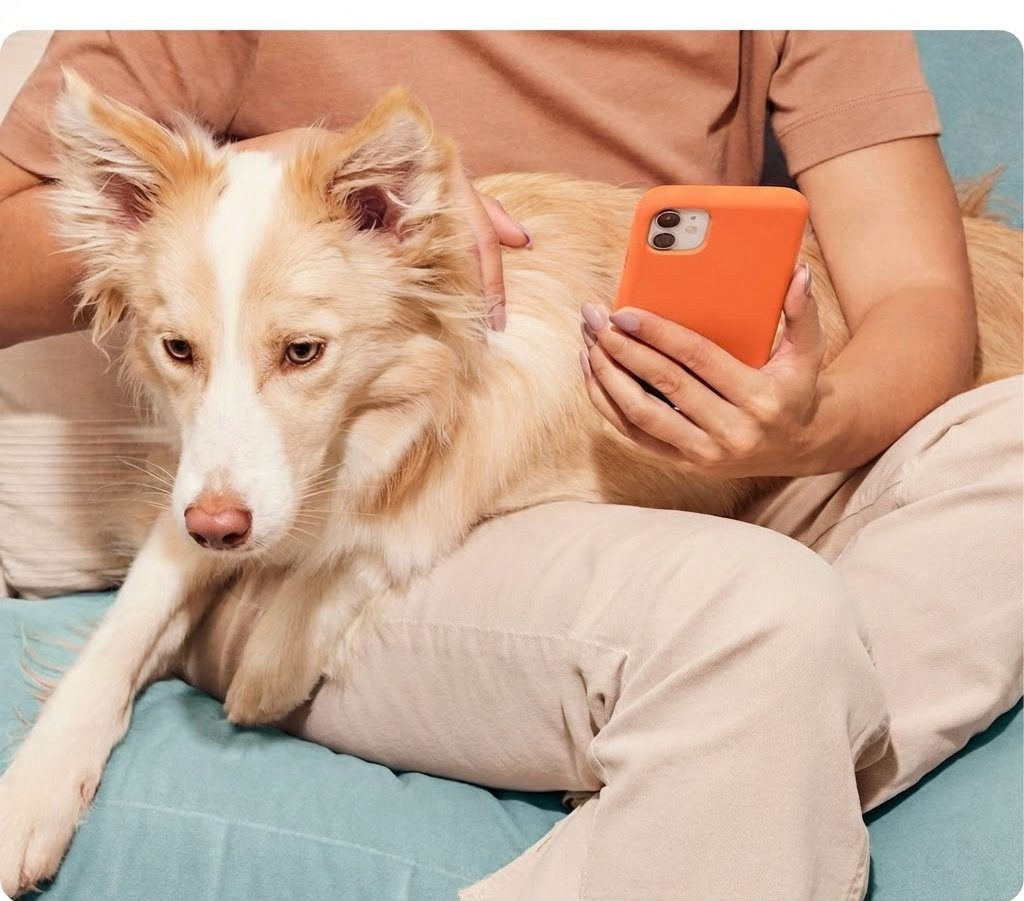
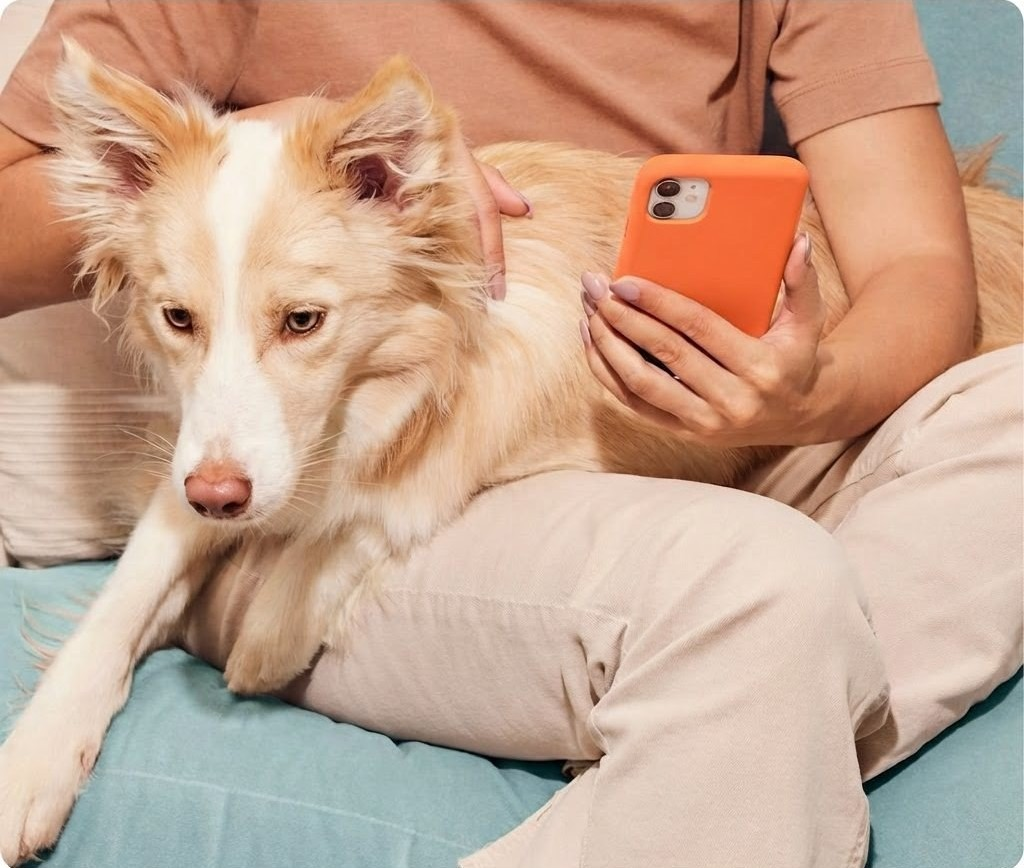
Home móvil: escena del SMS como Empecemos, sin anclaje de scroll, carrusel de menús deslizable, Ver todos los menús y pasos que aparecen de uno en uno; Cómo funciona: pattern abajo, primer plano del perro, foto de nutrición debajo y formulario centrado

diff --git a/index.html b/index.html
@@ -1429,6 +1429,20 @@ h1,h2,h3{font-family:var(--font-display);color:var(--text-hi);font-weight:700;li
 @media (max-width:900px){.s-recetas .cta{display:flex!important;padding-top:24px}}
 /* Opiniones: puntos de carrusel en tablet y móvil */
 @media (max-width:900px){.op-dots{display:flex;margin-top:4px}}
+/* SMS (tablet/móvil): escena como «Empecemos por tu perro»: tarjeta bajo el titular que crece a pantalla completa y aparece el formulario */
+@media (max-width:900px){
+  .sms2.is-manim{display:block;padding:0;min-height:0;background:#fff}
+  .sms2-stk{position:sticky;top:64px;overflow:hidden}
+  .sms2.is-manim .bg{position:absolute;left:var(--ml);right:var(--ml);top:var(--mt);bottom:var(--mb);height:auto;border-radius:var(--r);overflow:hidden;clip-path:none!important}
+  .sms2.is-manim .bg img{transform:none!important;object-position:40% 55%}
+  .sms2.is-manim .bg::after{background:rgba(20,16,14,.5);opacity:var(--sh,0)}
+  .sms2-intro{position:absolute;top:8px;left:var(--gutter);right:var(--gutter);text-align:center;opacity:var(--to,1);transform:translateY(var(--ty,0px))}
+  .sms2.is-manim .sms2-box{position:absolute;z-index:2;left:var(--gutter);right:var(--gutter);top:50%;width:auto;max-width:none;margin:0;padding:0;opacity:var(--fo,0);transform:translateY(calc(-50% + var(--fy,20px)));pointer-events:none}
+  .sms2.is-manim.is-done .sms2-box{pointer-events:auto}
+  .sms2.is-manim .sms2-dto{top:calc(var(--mt) - 34px);right:calc(var(--ml) + 4px)}
+}
+@media (max-width:1074px){.s-recetas .recetas-grid{touch-action:pan-y}}
+@media (max-width:860px){.ce3.is-anim .ce3-cards{overflow:clip;overflow-clip-margin:12px}}
 </style>
 </head>
 <body>
@@ -1569,7 +1583,7 @@ h1,h2,h3{font-family:var(--font-display);color:var(--text-hi);font-weight:700;li
     <article class="receta buey" data-key="buey"><div class="img rcm-img"><img src="assets/receta-buey.jpg" alt="Menú de buey de Dogfy Diet" loading="lazy" decoding="async"><img class="rcm-pack" src="assets/rc-pack-beef.jpg" alt="" aria-hidden="true" loading="lazy" decoding="async"></div><div class="rcm-body"><h3>Menú de buey</h3><span class="rcm-sold"><b>139.972</b> vendidos/mes</span></div></article>
     <article class="receta pavo" data-key="pavo"><div class="img rcm-img"><img src="assets/receta-pavo.jpg" alt="Menú de pavo de Dogfy Diet" loading="lazy" decoding="async"><img class="rcm-pack" src="assets/rc-pack-turkey.jpg" alt="" aria-hidden="true" loading="lazy" decoding="async"></div><div class="rcm-body"><h3>Menú de pavo</h3><span class="rcm-sold"><b>140.611</b> vendidos/mes</span></div></article>
   </div>
-  <div class="cta"><a class="btn btn-sec-rec" href="recetas.html">Ver recetas</a></div>
+  <div class="cta"><a class="btn btn-sec-rec" href="recetas.html">Ver todos los menús</a></div>
 </section>
 <img class="deco-precio" data-parallax="0.12" src="assets/precio-vector.svg" alt="" width="825" height="1291">
 <section class="s-precio" id="precio">
@@ -1733,7 +1747,7 @@ addEventListener('scroll',()=>{if(!tick){tick=true;requestAnimationFrame(upd)}},
 const tops=()=>[...document.querySelectorAll('.page > section, .page > .stats-m, .page > .yellow-wrap, .yellow-wrap > .s-caja')].filter(e=>e.offsetHeight>=innerHeight*.7&&!e.classList.contains('s-porque')&&!e.classList.contains('s-recetas')&&!e.classList.contains('ce3')).map(e=>e.getBoundingClientRect().top);  // el bol y las recetas no se anclan: sus propias animaciones ya guían el scroll y el anclaje las hacía bailar
 let idle=null,touching=false,snapping=false;const HEAD=64;
 // Rango amplio (8-95 % de la pantalla): cualquier límite de sección que quede a la vista se ancla; por encima del 55 % se completa la sección anterior, por debajo entra la nueva
-const settle=()=>{if(!mq.matches||touching||snapping)return;const vh=innerHeight;const cands=tops().filter(t=>t>vh*.12&&t<vh*.95);if(!cands.length)return;const b=cands.sort((p,q)=>Math.abs(p-vh*.5)-Math.abs(q-vh*.5))[0];const target=b<vh*.55?scrollY+b-HEAD:scrollY+b-vh;if(Math.abs(target-scrollY)<8)return;snapping=true;scrollTo({top:Math.max(0,target),behavior:'smooth'});
+const settle=()=>{return;const vh=innerHeight;const cands=tops().filter(t=>t>vh*.12&&t<vh*.95);if(!cands.length)return;const b=cands.sort((p,q)=>Math.abs(p-vh*.5)-Math.abs(q-vh*.5))[0];const target=b<vh*.55?scrollY+b-HEAD:scrollY+b-vh;if(Math.abs(target-scrollY)<8)return;snapping=true;scrollTo({top:Math.max(0,target),behavior:'smooth'});
   // si el desplazamiento suave se interrumpe o no llega, se vuelve a intentar
   clearTimeout(snapping._t);snapping._t=setTimeout(()=>{snapping=false;clearTimeout(idle);idle=setTimeout(settle,120);},1000);};
 addEventListener('scroll',()=>{clearTimeout(idle);idle=setTimeout(settle,160);},{passive:true});
@@ -1794,7 +1808,7 @@ breed.addEventListener('change',()=>{breedLabel.textContent=breed.value||'¿Cuá
   };
   addEventListener('scroll',()=>{if(!tick){tick=true;requestAnimationFrame(upd)}},{passive:true});addEventListener('resize',upd);mq.addEventListener('change',upd);upd();
   // Si el scroll se detiene a medias de una transición, se completa sola hacia delante: 3-52 % (el texto sale y la foto crece a sangre) salta al 54 %; 80-100 % (entrada de Opiniones) salta al final
-  let idle,snapping=false;const settle=()=>{if(!mq.matches||snapping)return;const r=wrap.getBoundingClientRect(),total=r.height-innerHeight;if(total<=0)return;const p=-r.top/total;let target=null;if(p>.03&&p<.52)target=.54;else if(p>.8&&p<.995)target=1;if(target==null)return;snapping=true;scrollTo({top:scrollY+total*(target-p),behavior:'smooth'});setTimeout(()=>snapping=false,900);};
+  let idle,snapping=false;const settle=()=>{return;const r=wrap.getBoundingClientRect(),total=r.height-innerHeight;if(total<=0)return;const p=-r.top/total;let target=null;if(p>.03&&p<.52)target=.54;else if(p>.8&&p<.995)target=1;if(target==null)return;snapping=true;scrollTo({top:scrollY+total*(target-p),behavior:'smooth'});setTimeout(()=>snapping=false,900);};
   addEventListener('scroll',()=>{clearTimeout(idle);idle=setTimeout(settle,160);},{passive:true});
 })();
 // Parallax: [data-parallax="velocidad"] se desplaza en Y según la posición del contenedor en el viewport
@@ -1874,6 +1888,11 @@ const next=()=>{if(!isOn()||el.classList.contains('stopped')||el.classList.conta
 const start=()=>{clearInterval(timer);timer=setInterval(next,4500);};
 el.addEventListener('transitionend',()=>{if(!el.classList.contains('stopped'))return;const m=/translateX\((-?[\d.]+)px\)/.exec(el.style.transform||'');if(!m)return;const x=parseFloat(m[1]);let best=0,bd=1e9;cards().forEach((c,i)=>{const d=Math.abs(xFor(i)-x);if(d<bd){bd=d;best=i;}});idx=best;});  // tras elegir una pestaña, seguimos desde esa tarjeta
 if(matchMedia('(hover:hover)').matches){el.addEventListener('mouseenter',()=>el.classList.add('paused'));el.addEventListener('mouseleave',()=>el.classList.remove('paused'));}
+// deslizar con el dedo: pasa a la tarjeta anterior/siguiente y reinicia el avance automático
+let sx=null,sy=null;const host=el.parentElement;
+host.addEventListener('touchstart',e=>{if(!isOn())return;sx=e.touches[0].clientX;sy=e.touches[0].clientY;},{passive:true});
+host.addEventListener('touchend',e=>{if(sx===null||!isOn())return;const dx=e.changedTouches[0].clientX-sx,dy=e.changedTouches[0].clientY-sy;sx=null;if(Math.abs(dx)<36||Math.abs(dx)<Math.abs(dy))return;
+  el.classList.remove('stopped');const n=real();idx+=dx<0?1:-1;if(idx<0){idx+=n;place(idx+1,false);requestAnimationFrame(()=>place(idx,true));}else{place(idx,true);if(idx>=n){const onEnd=()=>{el.removeEventListener('transitionend',onEnd);idx-=n;place(idx,false);};el.addEventListener('transitionend',onEnd);}}start();},{passive:true});
 const init=()=>{if(isOn()){idx=0;place(0,false);}else{el.style.transform='';el.classList.remove('sliding');}};init();addEventListener('resize',init);addEventListener('load',init);start();})();
 if(document.getElementById('reviews'))run(document.getElementById('reviews'),()=>true,34);})();
 // Stepper: reserva la altura del estado más alto (un paso abierto) para que el botón no baile al colapsar/expandir
@@ -1978,7 +1997,7 @@ const measure=()=>{vh=innerHeight;const mob=innerWidth<=860;gap=mob?12:16;const 
   run=Math.round(vh*.55)*(N-1);LH=lh;const shC=mob?mh+16+col:Math.max(col,mh);track.style.height=(shC+run)+'px';};
 let active=0;const setActive=k=>{if(k===active)return;active=k;imgs.forEach((im,i)=>im.classList.toggle('is-on',i===k));cards.forEach((c,i)=>{c.classList.toggle('is-past',i<k);c.classList.toggle('is-active',i===k);});};
 let tick=false;const upd=()=>{tick=false;const r=track.getBoundingClientRect(),p=Math.max(0,Math.min(N-1,(stuck-r.top)/(run/(N-1))));
-  let y=0,bot=0;cards.forEach((c,i)=>{if(i){const t=ease(Math.max(0,Math.min(1,p-(i-1))));y+=lerp(hs[i-1]+gap,tops[i-1],t);}const o=i<2?1:Math.max(0,Math.min(1,(p-(i-1.6))/0.6));c.style.setProperty('--y',(y+(1-o)*28).toFixed(1)+'px');c.style.opacity=o.toFixed(3);if(o>0.02)bot=Math.max(bot,y+hs[i]);});list.style.setProperty('--ce3-h',bot.toFixed(1)+'px');
+  let y=0,bot=0;cards.forEach((c,i)=>{if(i){const t=ease(Math.max(0,Math.min(1,p-(i-1))));y+=lerp(hs[i-1]+gap,tops[i-1],t);}const MOB=innerWidth<=860;const o=MOB?(i<1?1:Math.max(0,Math.min(1,(p-(i-1))/0.55))):(i<2?1:Math.max(0,Math.min(1,(p-(i-1.6))/0.6)));c.style.setProperty('--y',(y+(1-o)*28).toFixed(1)+'px');c.style.opacity=o.toFixed(3);if(o>0.02)bot=Math.max(bot,y+hs[i]);});list.style.setProperty('--ce3-h',(innerWidth<=860?LH:bot).toFixed(1)+'px');
   setActive(Math.min(N-1,Math.floor(p+.5)));};
 cards.forEach((c,i)=>c.querySelector('.ce3-top').addEventListener('click',()=>{const r=track.getBoundingClientRect();scrollTo({top:scrollY+r.top-stuck+i*(run/(N-1))+2,behavior:'smooth'});}));
 const on=()=>{if(!tick){tick=true;requestAnimationFrame(upd);}};addEventListener('scroll',on,{passive:true});
@@ -2032,6 +2051,24 @@ const dots=cards.map((c,i)=>{const b=document.createElement('button');b.type='bu
 g.after(nav);let t=false;const upd=()=>{t=false;const mid=g.scrollLeft+g.clientWidth/2;let k=0,best=1e9;cards.forEach((c,i)=>{const d=Math.abs(c.offsetLeft-g.offsetLeft+c.offsetWidth/2-mid);if(d<best){best=d;k=i;}});
 if(g.scrollLeft+g.clientWidth>=g.scrollWidth-4)k=cards.length-1;dots.forEach((b,i)=>{b.classList.toggle('active',i===k);b.setAttribute('aria-current',i===k?'true':'false');});};
 g.addEventListener('scroll',()=>{if(!t){t=true;requestAnimationFrame(upd);}},{passive:true});addEventListener('resize',upd);upd();});})();
+</script>
+<script>
+// SMS en tablet/móvil: escena con scroll equivalente a desktop
+(()=>{const s=document.querySelector('.sms2');if(!s)return;const mq=matchMedia('(max-width:900px) and (prefers-reduced-motion:no-preference)');
+const cl=(v,a,b)=>Math.min(b,Math.max(a,v)),ease=t=>t<.5?2*t*t:1-Math.pow(-2*t+2,2)/2,set=(k,v)=>s.style.setProperty(k,v);
+let stk=null,intro=null;
+const build=()=>{if(stk)return;stk=document.createElement('div');stk.className='sms2-stk';while(s.firstChild)stk.appendChild(s.firstChild);s.appendChild(stk);
+  intro=document.createElement('div');intro.className='sms2-intro';intro.setAttribute('aria-hidden','true');const t=s.querySelector('.sms2-title');if(t)intro.appendChild(t.cloneNode(true));stk.insertBefore(intro,stk.firstChild);};
+const unbuild=()=>{if(!stk)return;intro.remove();while(stk.firstChild)s.insertBefore(stk.firstChild,stk);stk.remove();stk=null;s.classList.remove('is-manim','is-done');s.removeAttribute('style');};
+const upd=()=>{if(!mq.matches){unbuild();return}build();s.classList.add('is-manim');
+  const SH=Math.min(innerHeight-64,760);stk.style.height=SH+'px';s.style.height=Math.round(SH+innerHeight*1.1)+'px';
+  const gx=parseFloat(getComputedStyle(document.documentElement).getPropertyValue('--gutter'))||24,gut=Math.min(gx,24);
+  const t0=intro.offsetHeight+28,h0=Math.min(400,SH-t0-60),b0=Math.max(0,SH-t0-h0);
+  const r=s.getBoundingClientRect(),p=cl((64-r.top)/Math.max(1,s.offsetHeight-SH),0,1),g=ease(cl((p-.08)/.6,0,1));
+  set('--mt',(t0*(1-g))+'px');set('--mb',(b0*(1-g))+'px');set('--ml',(gut*(1-g))+'px');set('--r',(20*(1-g))+'px');
+  set('--to',1-cl(g/.35,0,1));set('--ty',(-24*g)+'px');set('--sh',cl((g-.4)/.4,0,1));const fo=cl((g-.7)/.25,0,1);set('--fo',fo);set('--fy',(20*(1-fo))+'px');
+  s.classList.toggle('is-done',fo>.9);};
+let tk=false;addEventListener('scroll',()=>{if(!tk){tk=true;requestAnimationFrame(()=>{tk=false;upd();});}},{passive:true});addEventListener('resize',upd);if(document.fonts)document.fonts.ready.then(upd);upd();})();
 </script>
 </body>
 </html>

diff --git a/como-funciona.html b/como-funciona.html
@@ -2367,6 +2367,22 @@ body:has(.rp-hero) .rp-crumbs{background:var(--blue-deco);max-width:none;padding
 @media (max-width:600px){.cf2-hero h1{font-size:30px;line-height:1.08}}
 .cf2-hero h1{font-size:clamp(36px,4.2vw,58px);max-width:640px}
 @media (max-width:600px){.cf2-hero h1{font-size:34px}}
+/* Pasos: el pattern azul más abajo (no toca el titular) y siempre detrás del texto */
+.cf2-head{position:relative;z-index:2}
+@media (min-width:901px){.cf2-media .cf3-pattern{top:auto;bottom:-120px;transform:none}}
+/* «Para perros llenos de vida» móvil: esquinas suaves y zoom centrado en el perro */
+@media (max-width:767px){
+  .cf2-support-card:has(.cf6-vida){border-radius:14px}
+  .cf2-support-card:has(.cf6-vida) .cf6-vida{transform:scale(2.1);transform-origin:66% 84%}
+}
+/* Nutrición móvil/tablet: la foto debajo del texto, bien encuadrada */
+@media (max-width:900px){.cf2-nutri-img{order:2;margin-top:8px;aspect-ratio:1/1;object-position:35% 40%}}
+/* «Empecemos» móvil: el bloque del formulario centrado en la foto */
+@media (max-width:900px){
+  .emp2-box{top:50%;bottom:auto;left:16px;right:16px}
+  .emp2-stage.is-manim .emp2-box{transform:translateY(calc(-50% + var(--fy,20px)))}
+  .emp2-stage:not(.is-manim) .emp2-box{transform:translateY(-50%)}
+}
 </style>
 <script type="application/ld+json">{"@context": "https://schema.org", "@type": "BreadcrumbList", "itemListElement": [{"@type": "ListItem", "position": 1, "name": "Inicio", "item": "https://cdomingo-dogfy.github.io/dogfy-home-prototype/index.html"}, {"@type": "ListItem", "position": 2, "name": "Cómo funciona", "item": "https://cdomingo-dogfy.github.io/dogfy-home-prototype/como-funciona.html"}]}</script>
 <script type="application/ld+json">{"@context": "https://schema.org", "@type": "FAQPage", "mainEntity": [{"@type": "Question", "name": "¿Qué formatos hay?", "acceptedAnswer": {"@type": "Answer", "text": "Cada menú llega en bolsitas individuales con la ración diaria de tu perro, ya calculada según su peso, edad y actividad. Puedes elegir una receta o combinar varias en el mismo pedido."}}, {"@type": "Question", "name": "¿Cómo llega el producto?", "acceptedAnswer": {"@type": "Answer", "text": "Te lo enviamos a casa congelado y dividido en bolsitas diarias, con envío gratis. Solo tienes que guardarlo en el congelador al recibirlo."}}, {"@type": "Question", "name": "¿Cómo se prepara, debo cocinar el alimento al perro?", "acceptedAnswer": {"@type": "Answer", "text": "No hace falta cocinar nada. Nuestras recetas ya vienen cocinadas a baja temperatura: descongela la bolsita en la nevera, ábrela y sirve."}}, {"@type": "Question", "name": "¿Cada cuánto llegan los menús?", "acceptedAnswer": {"@type": "Answer", "text": "Tu primera caja trae 14 días de comida. Después la suscripción continúa y puedes cambiar recetas, aplazar envíos o cancelar cuando quieras, sin permanencia."}}, {"@type": "Question", "name": "¿Puedo hablar con el equipo de nutrición?", "acceptedAnswer": {"@type": "Answer", "text": "Sí. Tu plan incluye seguimiento nutricional gratuito: puedes escribir a nuestro equipo de Nutrición canina siempre que lo necesites, en cualquier etapa de la vida de tu perro."}}]}</script>
@@ -2476,7 +2492,7 @@ body:has(.rp-hero) .rp-crumbs{background:var(--blue-deco);max-width:none;padding
 
 <section class="cf2-nutri" aria-labelledby="nutTitle">
   <div class="cf2-nutri-grid">
-    <img class="cf2-nutri-img" src="assets/cf2-nutri.jpg" alt="Una persona consulta el móvil con su perro en el regazo" width="1024" height="900" loading="lazy" decoding="async">
+    <img class="cf2-nutri-img" src="assets/cf2-nutri.jpg" alt="Una persona consulta el móvil con su perro en el regazo" width="1024" height="868" loading="lazy" decoding="async">
     <div class="cf2-nutri-txt">
       <span class="cf2-badge cf2-badge-sm">Incluido en tu suscripción</span>
       <h2 id="nutTitle" class="h2">Su ración puede cambiar. Te ayudamos a revisarla.</h2>

diff --git a/recetas.html b/recetas.html
@@ -2367,6 +2367,22 @@ body:has(.rp-hero) .rp-crumbs{background:var(--blue-deco);max-width:none;padding
 @media (max-width:600px){.cf2-hero h1{font-size:30px;line-height:1.08}}
 .cf2-hero h1{font-size:clamp(36px,4.2vw,58px);max-width:640px}
 @media (max-width:600px){.cf2-hero h1{font-size:34px}}
+/* Pasos: el pattern azul más abajo (no toca el titular) y siempre detrás del texto */
+.cf2-head{position:relative;z-index:2}
+@media (min-width:901px){.cf2-media .cf3-pattern{top:auto;bottom:-120px;transform:none}}
+/* «Para perros llenos de vida» móvil: esquinas suaves y zoom centrado en el perro */
+@media (max-width:767px){
+  .cf2-support-card:has(.cf6-vida){border-radius:14px}
+  .cf2-support-card:has(.cf6-vida) .cf6-vida{transform:scale(2.1);transform-origin:66% 84%}
+}
+/* Nutrición móvil/tablet: la foto debajo del texto, bien encuadrada */
+@media (max-width:900px){.cf2-nutri-img{order:2;margin-top:8px;aspect-ratio:1/1;object-position:35% 40%}}
+/* «Empecemos» móvil: el bloque del formulario centrado en la foto */
+@media (max-width:900px){
+  .emp2-box{top:50%;bottom:auto;left:16px;right:16px}
+  .emp2-stage.is-manim .emp2-box{transform:translateY(calc(-50% + var(--fy,20px)))}
+  .emp2-stage:not(.is-manim) .emp2-box{transform:translateY(-50%)}
+}
 </style>
 <script type="application/ld+json">{"@context": "https://schema.org", "@type": "BreadcrumbList", "itemListElement": [{"@type": "ListItem", "position": 1, "name": "Inicio", "item": "https://cdomingo-dogfy.github.io/dogfy-home-prototype/index.html"}, {"@type": "ListItem", "position": 2, "name": "Nuestras recetas", "item": "https://cdomingo-dogfy.github.io/dogfy-home-prototype/recetas.html"}]}</script>
 <script type="application/ld+json">{"@context": "https://schema.org", "@type": "FAQPage", "mainEntity": [{"@type": "Question", "name": "¿Qué formatos hay?", "acceptedAnswer": {"@type": "Answer", "text": "Cada menú llega en bolsitas individuales con la ración diaria de tu perro, ya calculada según su peso, edad y actividad. Puedes elegir una receta o combinar varias en el mismo pedido."}}, {"@type": "Question", "name": "¿Qué cantidad se le debe dar?", "acceptedAnswer": {"@type": "Answer", "text": "Depende de su peso, edad y nivel de actividad. Al crear su plan calculamos su ración diaria exacta y cada bolsita contiene justo esa cantidad, así que no tienes que pesar nada."}}, {"@type": "Question", "name": "¿Cómo llega el producto?", "acceptedAnswer": {"@type": "Answer", "text": "Te lo enviamos a casa congelado y dividido en bolsitas diarias, con envío gratis. Solo tienes que guardarlo en el congelador al recibirlo."}}, {"@type": "Question", "name": "¿Cómo se prepara, debo cocinar el alimento al perro?", "acceptedAnswer": {"@type": "Answer", "text": "No hace falta cocinar nada. Nuestras recetas ya vienen cocinadas a baja temperatura: descongela la bolsita en la nevera, ábrela y sirve."}}, {"@type": "Question", "name": "¿Cada cuánto llegan los menús?", "acceptedAnswer": {"@type": "Answer", "text": "Tu primera caja trae 14 días de comida. Después la suscripción continúa y puedes cambiar recetas, aplazar envíos o cancelar cuando quieras, sin permanencia."}}]}</script>

diff --git a/receta-salmon.html b/receta-salmon.html
@@ -2367,6 +2367,22 @@ body:has(.rp-hero) .rp-crumbs{background:var(--blue-deco);max-width:none;padding
 @media (max-width:600px){.cf2-hero h1{font-size:30px;line-height:1.08}}
 .cf2-hero h1{font-size:clamp(36px,4.2vw,58px);max-width:640px}
 @media (max-width:600px){.cf2-hero h1{font-size:34px}}
+/* Pasos: el pattern azul más abajo (no toca el titular) y siempre detrás del texto */
+.cf2-head{position:relative;z-index:2}
+@media (min-width:901px){.cf2-media .cf3-pattern{top:auto;bottom:-120px;transform:none}}
+/* «Para perros llenos de vida» móvil: esquinas suaves y zoom centrado en el perro */
+@media (max-width:767px){
+  .cf2-support-card:has(.cf6-vida){border-radius:14px}
+  .cf2-support-card:has(.cf6-vida) .cf6-vida{transform:scale(2.1);transform-origin:66% 84%}
+}
+/* Nutrición móvil/tablet: la foto debajo del texto, bien encuadrada */
+@media (max-width:900px){.cf2-nutri-img{order:2;margin-top:8px;aspect-ratio:1/1;object-position:35% 40%}}
+/* «Empecemos» móvil: el bloque del formulario centrado en la foto */
+@media (max-width:900px){
+  .emp2-box{top:50%;bottom:auto;left:16px;right:16px}
+  .emp2-stage.is-manim .emp2-box{transform:translateY(calc(-50% + var(--fy,20px)))}
+  .emp2-stage:not(.is-manim) .emp2-box{transform:translateY(-50%)}
+}
 </style>
 <script type="application/ld+json">{"@context": "https://schema.org", "@type": "BreadcrumbList", "itemListElement": [{"@type": "ListItem", "position": 1, "name": "Inicio", "item": "https://cdomingo-dogfy.github.io/dogfy-home-prototype/index.html"}, {"@type": "ListItem", "position": 2, "name": "Nuestras recetas", "item": "https://cdomingo-dogfy.github.io/dogfy-home-prototype/recetas.html"}, {"@type": "ListItem", "position": 3, "name": "Menú de salmón", "item": "https://cdomingo-dogfy.github.io/dogfy-home-prototype/receta-salmon.html"}]}</script>
 <script type="application/ld+json">{"@context": "https://schema.org", "@type": "FAQPage", "mainEntity": [{"@type": "Question", "name": "¿Qué formatos hay?", "acceptedAnswer": {"@type": "Answer", "text": "Cada menú llega en bolsitas individuales con la ración diaria de tu perro, ya calculada según su peso, edad y actividad. Puedes elegir una receta o combinar varias en el mismo pedido."}}, {"@type": "Question", "name": "¿Qué cantidad se le debe dar?", "acceptedAnswer": {"@type": "Answer", "text": "Depende de su peso, edad y nivel de actividad. Al crear su plan calculamos su ración diaria exacta y cada bolsita contiene justo esa cantidad, así que no tienes que pesar nada."}}, {"@type": "Question", "name": "¿Cómo llega el producto?", "acceptedAnswer": {"@type": "Answer", "text": "Te lo enviamos a casa congelado y dividido en bolsitas diarias, con envío gratis. Solo tienes que guardarlo en el congelador al recibirlo."}}]}</script>

diff --git a/receta-pollo.html b/receta-pollo.html
@@ -2367,6 +2367,22 @@ body:has(.rp-hero) .rp-crumbs{background:var(--blue-deco);max-width:none;padding
 @media (max-width:600px){.cf2-hero h1{font-size:30px;line-height:1.08}}
 .cf2-hero h1{font-size:clamp(36px,4.2vw,58px);max-width:640px}
 @media (max-width:600px){.cf2-hero h1{font-size:34px}}
+/* Pasos: el pattern azul más abajo (no toca el titular) y siempre detrás del texto */
+.cf2-head{position:relative;z-index:2}
+@media (min-width:901px){.cf2-media .cf3-pattern{top:auto;bottom:-120px;transform:none}}
+/* «Para perros llenos de vida» móvil: esquinas suaves y zoom centrado en el perro */
+@media (max-width:767px){
+  .cf2-support-card:has(.cf6-vida){border-radius:14px}
+  .cf2-support-card:has(.cf6-vida) .cf6-vida{transform:scale(2.1);transform-origin:66% 84%}
+}
+/* Nutrición móvil/tablet: la foto debajo del texto, bien encuadrada */
+@media (max-width:900px){.cf2-nutri-img{order:2;margin-top:8px;aspect-ratio:1/1;object-position:35% 40%}}
+/* «Empecemos» móvil: el bloque del formulario centrado en la foto */
+@media (max-width:900px){
+  .emp2-box{top:50%;bottom:auto;left:16px;right:16px}
+  .emp2-stage.is-manim .emp2-box{transform:translateY(calc(-50% + var(--fy,20px)))}
+  .emp2-stage:not(.is-manim) .emp2-box{transform:translateY(-50%)}
+}
 </style>
 <script type="application/ld+json">{"@context": "https://schema.org", "@type": "BreadcrumbList", "itemListElement": [{"@type": "ListItem", "position": 1, "name": "Inicio", "item": "https://cdomingo-dogfy.github.io/dogfy-home-prototype/index.html"}, {"@type": "ListItem", "position": 2, "name": "Nuestras recetas", "item": "https://cdomingo-dogfy.github.io/dogfy-home-prototype/recetas.html"}, {"@type": "ListItem", "position": 3, "name": "Menú de pollo", "item": "https://cdomingo-dogfy.github.io/dogfy-home-prototype/receta-pollo.html"}]}</script>
 <script type="application/ld+json">{"@context": "https://schema.org", "@type": "FAQPage", "mainEntity": [{"@type": "Question", "name": "¿Qué formatos hay?", "acceptedAnswer": {"@type": "Answer", "text": "Cada menú llega en bolsitas individuales con la ración diaria de tu perro, ya calculada según su peso, edad y actividad. Puedes elegir una receta o combinar varias en el mismo pedido."}}, {"@type": "Question", "name": "¿Qué cantidad se le debe dar?", "acceptedAnswer": {"@type": "Answer", "text": "Depende de su peso, edad y nivel de actividad. Al crear su plan calculamos su ración diaria exacta y cada bolsita contiene justo esa cantidad, así que no tienes que pesar nada."}}, {"@type": "Question", "name": "¿Cómo llega el producto?", "acceptedAnswer": {"@type": "Answer", "text": "Te lo enviamos a casa congelado y dividido en bolsitas diarias, con envío gratis. Solo tienes que guardarlo en el congelador al recibirlo."}}]}</script>

diff --git a/receta-buey.html b/receta-buey.html
@@ -2367,6 +2367,22 @@ body:has(.rp-hero) .rp-crumbs{background:var(--blue-deco);max-width:none;padding
 @media (max-width:600px){.cf2-hero h1{font-size:30px;line-height:1.08}}
 .cf2-hero h1{font-size:clamp(36px,4.2vw,58px);max-width:640px}
 @media (max-width:600px){.cf2-hero h1{font-size:34px}}
+/* Pasos: el pattern azul más abajo (no toca el titular) y siempre detrás del texto */
+.cf2-head{position:relative;z-index:2}
+@media (min-width:901px){.cf2-media .cf3-pattern{top:auto;bottom:-120px;transform:none}}
+/* «Para perros llenos de vida» móvil: esquinas suaves y zoom centrado en el perro */
+@media (max-width:767px){
+  .cf2-support-card:has(.cf6-vida){border-radius:14px}
+  .cf2-support-card:has(.cf6-vida) .cf6-vida{transform:scale(2.1);transform-origin:66% 84%}
+}
+/* Nutrición móvil/tablet: la foto debajo del texto, bien encuadrada */
+@media (max-width:900px){.cf2-nutri-img{order:2;margin-top:8px;aspect-ratio:1/1;object-position:35% 40%}}
+/* «Empecemos» móvil: el bloque del formulario centrado en la foto */
+@media (max-width:900px){
+  .emp2-box{top:50%;bottom:auto;left:16px;right:16px}
+  .emp2-stage.is-manim .emp2-box{transform:translateY(calc(-50% + var(--fy,20px)))}
+  .emp2-stage:not(.is-manim) .emp2-box{transform:translateY(-50%)}
+}
 </style>
 <script type="application/ld+json">{"@context": "https://schema.org", "@type": "BreadcrumbList", "itemListElement": [{"@type": "ListItem", "position": 1, "name": "Inicio", "item": "https://cdomingo-dogfy.github.io/dogfy-home-prototype/index.html"}, {"@type": "ListItem", "position": 2, "name": "Nuestras recetas", "item": "https://cdomingo-dogfy.github.io/dogfy-home-prototype/recetas.html"}, {"@type": "ListItem", "position": 3, "name": "Menú de buey", "item": "https://cdomingo-dogfy.github.io/dogfy-home-prototype/receta-buey.html"}]}</script>
 <script type="application/ld+json">{"@context": "https://schema.org", "@type": "FAQPage", "mainEntity": [{"@type": "Question", "name": "¿Qué formatos hay?", "acceptedAnswer": {"@type": "Answer", "text": "Cada menú llega en bolsitas individuales con la ración diaria de tu perro, ya calculada según su peso, edad y actividad. Puedes elegir una receta o combinar varias en el mismo pedido."}}, {"@type": "Question", "name": "¿Qué cantidad se le debe dar?", "acceptedAnswer": {"@type": "Answer", "text": "Depende de su peso, edad y nivel de actividad. Al crear su plan calculamos su ración diaria exacta y cada bolsita contiene justo esa cantidad, así que no tienes que pesar nada."}}, {"@type": "Question", "name": "¿Cómo llega el producto?", "acceptedAnswer": {"@type": "Answer", "text": "Te lo enviamos a casa congelado y dividido en bolsitas diarias, con envío gratis. Solo tienes que guardarlo en el congelador al recibirlo."}}]}</script>

diff --git a/receta-pavo.html b/receta-pavo.html
@@ -2367,6 +2367,22 @@ body:has(.rp-hero) .rp-crumbs{background:var(--blue-deco);max-width:none;padding
 @media (max-width:600px){.cf2-hero h1{font-size:30px;line-height:1.08}}
 .cf2-hero h1{font-size:clamp(36px,4.2vw,58px);max-width:640px}
 @media (max-width:600px){.cf2-hero h1{font-size:34px}}
+/* Pasos: el pattern azul más abajo (no toca el titular) y siempre detrás del texto */
+.cf2-head{position:relative;z-index:2}
+@media (min-width:901px){.cf2-media .cf3-pattern{top:auto;bottom:-120px;transform:none}}
+/* «Para perros llenos de vida» móvil: esquinas suaves y zoom centrado en el perro */
+@media (max-width:767px){
+  .cf2-support-card:has(.cf6-vida){border-radius:14px}
+  .cf2-support-card:has(.cf6-vida) .cf6-vida{transform:scale(2.1);transform-origin:66% 84%}
+}
+/* Nutrición móvil/tablet: la foto debajo del texto, bien encuadrada */
+@media (max-width:900px){.cf2-nutri-img{order:2;margin-top:8px;aspect-ratio:1/1;object-position:35% 40%}}
+/* «Empecemos» móvil: el bloque del formulario centrado en la foto */
+@media (max-width:900px){
+  .emp2-box{top:50%;bottom:auto;left:16px;right:16px}
+  .emp2-stage.is-manim .emp2-box{transform:translateY(calc(-50% + var(--fy,20px)))}
+  .emp2-stage:not(.is-manim) .emp2-box{transform:translateY(-50%)}
+}
 </style>
 <script type="application/ld+json">{"@context": "https://schema.org", "@type": "BreadcrumbList", "itemListElement": [{"@type": "ListItem", "position": 1, "name": "Inicio", "item": "https://cdomingo-dogfy.github.io/dogfy-home-prototype/index.html"}, {"@type": "ListItem", "position": 2, "name": "Nuestras recetas", "item": "https://cdomingo-dogfy.github.io/dogfy-home-prototype/recetas.html"}, {"@type": "ListItem", "position": 3, "name": "Menú de pavo", "item": "https://cdomingo-dogfy.github.io/dogfy-home-prototype/receta-pavo.html"}]}</script>
 <script type="application/ld+json">{"@context": "https://schema.org", "@type": "FAQPage", "mainEntity": [{"@type": "Question", "name": "¿Qué formatos hay?", "acceptedAnswer": {"@type": "Answer", "text": "Cada menú llega en bolsitas individuales con la ración diaria de tu perro, ya calculada según su peso, edad y actividad. Puedes elegir una receta o combinar varias en el mismo pedido."}}, {"@type": "Question", "name": "¿Qué cantidad se le debe dar?", "acceptedAnswer": {"@type": "Answer", "text": "Depende de su peso, edad y nivel de actividad. Al crear su plan calculamos su ración diaria exacta y cada bolsita contiene justo esa cantidad, así que no tienes que pesar nada."}}, {"@type": "Question", "name": "¿Cómo llega el producto?", "acceptedAnswer": {"@type": "Answer", "text": "Te lo enviamos a casa congelado y dividido en bolsitas diarias, con envío gratis. Solo tienes que guardarlo en el congelador al recibirlo."}}]}</script>
